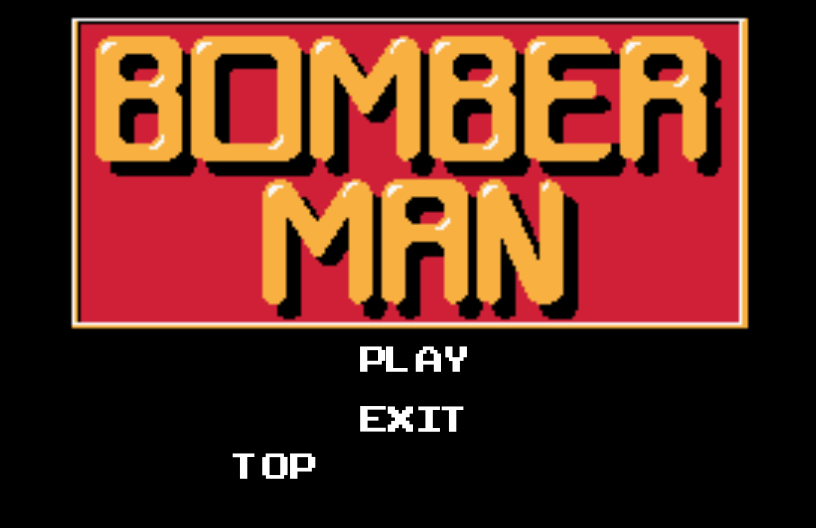
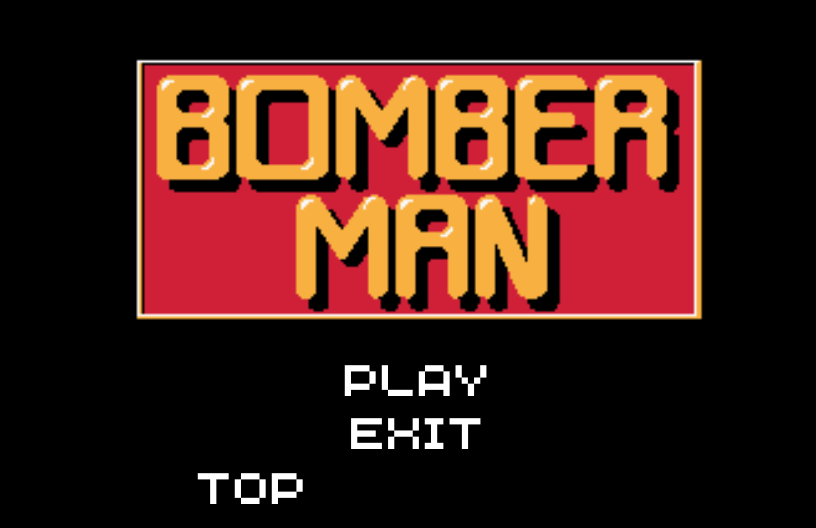
Edit Start Menu, Play Again Menu, Pause and Make map transition faster

diff --git a/src/main/java/GUI/GameOver.java b/src/main/java/GUI/GameOver.java
@@ -1,6 +1,7 @@
 package GUI;
 
 import Controls.MouseHandler;
+import Variables.Constant;
 
 import javax.imageio.ImageIO;
 import java.awt.*;
@@ -10,10 +11,11 @@ import java.io.File;
 public class GameOver {
     boolean isAlive;
 
-    BufferedImage gameOver, playAgain, playAgainPressed, exit, exitPressed;
-    BufferedImage playAgainCurrentImage, exitCurrentImage;
+    BufferedImage gameOver, playAgainPressed, exitPressed;
+    BufferedImage currentGameOver;
 
-    Rect gameOverRect, playAgainRect, exitRect;
+    Rect playAgainRect, exitRect;
+
     MouseHandler mouseH = Window.getMouseH();
 
     public static GameOver instance = null;
@@ -26,30 +28,16 @@ public class GameOver {
     }
 
     public GameOver() {
-
         try {
-            BufferedImage spriteSheet1 = ImageIO.read(new File("src/main/resources/Menu/Game_Over.png"));
-            gameOver = spriteSheet1.getSubimage(0, 0, 531, 69);
-
-            BufferedImage spriteSheet2 = ImageIO.read(new File("src/main/resources/Menu/Exit_Play.png"));
-            exit = spriteSheet2.getSubimage(0, 70, 175, 53);
-            exitPressed = spriteSheet2.getSubimage(208, 69, 175, 53);
-
-            BufferedImage spriteSheet3 = ImageIO.read(new File("src/main/resources/Menu/Play_Again.png"));
-            playAgain = spriteSheet3.getSubimage(0, 68, 440, 55);
-            playAgainPressed = spriteSheet3.getSubimage(462, 68, 440, 55);
-
+            gameOver = ImageIO.read(new File("src/main/resources/Menu/GameOver.png"));
+            playAgainPressed = ImageIO.read(new File("src/main/resources/Menu/GameOverPlayAgainPressed.png"));
+            exitPressed = ImageIO.read(new File("src/main/resources/Menu/GameOverExitPressed.png"));
         } catch (Exception e) {
             e.printStackTrace();
         }
-        playAgainCurrentImage = playAgain;
-        exitCurrentImage = exit;
-
-        //Game Over Menu Location
-        gameOverRect = new Rect(150, 100, 531, 69);
-        playAgainRect = new Rect(195, 275, 440, 55);
-        exitRect = new Rect(328, 348, 175, 53);
-
+        currentGameOver = gameOver;
+        playAgainRect = new Rect(258, 292, 332, 31);
+        exitRect = new Rect(359, 344, 131, 29);
     }
 
     public void checkAlive(int state) {
@@ -57,40 +45,26 @@ public class GameOver {
     }
 
     public void update() {
-        //Pressed Play Again
         if (mouseH.getX() >= playAgainRect.x && mouseH.getX() <= playAgainRect.x + playAgainRect.width &&
                 mouseH.getY() >= playAgainRect.y && mouseH.getY() <= playAgainRect.y + playAgainRect.height) {
-            playAgainCurrentImage = playAgainPressed;
+            currentGameOver = playAgainPressed;
             if (mouseH.isPressed) {
 //                Window.getWindow().changeState(2); // For debugging purposes
                 Window.getWindow().changeState(GameScene.getMapID());
                 TileManager.getInstance().clearMap(); //Return map to default map
             }
-        } else playAgainCurrentImage = playAgain;
-
-        //Pressed Exit
-        if (mouseH.getX() >= exitRect.x && mouseH.getX() <= exitRect.x + exitRect.width &&
+        } else if (mouseH.getX() >= exitRect.x && mouseH.getX() <= exitRect.x + exitRect.width &&
                 mouseH.getY() >= exitRect.y && mouseH.getY() <= exitRect.y + exitRect.height) {
-            exitCurrentImage = exitPressed;
+            currentGameOver = exitPressed;
             if (mouseH.isPressed) {
                 Window.getWindow().close();
             }
-        } else exitCurrentImage = exit;
+        } else {
+            currentGameOver = gameOver;
+        }
     }
 
     public void draw(Graphics g2) {
-//        JLayeredPane grayLayer = new JLayeredPane();
-//        grayLayer.setBounds(0, 0, Constant.WIDTH - 100, Constant.HEIGHT - 100);
-//        grayLayer.setBackground(new Color(0, 0, 0, 50));
-//
-//        Window.getWindow().addLayer(grayLayer);
-
-        getOption(g2, gameOver, gameOverRect, playAgainCurrentImage, playAgainRect, exitCurrentImage, exitRect);
-    }
-
-    static void getOption(Graphics g2, BufferedImage gameOver, Rect gameOverRect, BufferedImage playAgainCurrentImage, Rect playAgainRect, BufferedImage exitCurrentImage, Rect exitRect) {
-        g2.drawImage(gameOver, (int) gameOverRect.x, (int) gameOverRect.y, (int) gameOverRect.width, (int) gameOverRect.height, null);
-        g2.drawImage(playAgainCurrentImage, (int) playAgainRect.x, (int) playAgainRect.y, (int) playAgainRect.width, (int) playAgainRect.height, null);
-        g2.drawImage(exitCurrentImage, (int) exitRect.x, (int) exitRect.y, (int) exitRect.width, (int) exitRect.height, null);
+        g2.drawImage(currentGameOver, 0, 0, Constant.WIDTH, Constant.HEIGHT, null);
     }
 }

diff --git a/src/main/java/GUI/Pause.java b/src/main/java/GUI/Pause.java
@@ -1,6 +1,7 @@
 package GUI;
 
 import Controls.KeyHandler;
+import Variables.Constant;
 
 import javax.imageio.ImageIO;
 import java.awt.*;
@@ -12,20 +13,15 @@ public class Pause {
     KeyHandler keyH = Window.getKeyH();
     BufferedImage pause;
     boolean isPaused, flag;
-    Rect pauseRect;
 
     Pause(boolean isPaused) {
         this.isPaused = isPaused;
 
         try {
-            BufferedImage spriteSheet = ImageIO.read(new File("src/main/resources/Menu/Pause.png"));
-            pause = spriteSheet.getSubimage(0, 0, 308, 57);
+            pause = ImageIO.read(new File("src/main/resources/Menu/Pause.png"));
         } catch (Exception e) {
             e.printStackTrace();
         }
-
-        //Pause location
-        pauseRect = new Rect(254, 235, 308, 57);
     }
     public void pauseGame() {
         if (keyH.pausePressed) {
@@ -39,6 +35,6 @@ public class Pause {
     }
 
     public void draw(Graphics g2) {
-        g2.drawImage(pause, (int) pauseRect.x, (int) pauseRect.y, (int) pauseRect.width, (int) pauseRect.height, null);
+        g2.drawImage(pause, 0, 0, Constant.WIDTH, Constant.HEIGHT, null);
     }
 }

diff --git a/src/main/java/Entity/Player.java b/src/main/java/Entity/Player.java
@@ -2,9 +2,7 @@ package Entity;
 
 import Controls.CollisionCheck;
 import Controls.KeyHandler;
-import GUI.Camera;
-import GUI.GameScene;
-import GUI.MapTransitionMenu;
+import GUI.*;
 import GUI.Window;
 import Variables.Constant;
 
@@ -147,10 +145,12 @@ public class Player extends Entity {
                     GameScene.Object[i] = null;
                 }
                 case "Door" ->{
-                    if(GameScene.getMobList() == null) {
+//                    if(GameScene.getMobList() == null) {
                         System.out.println("Map Transition");
-                        MapTransitionMenu.getInstance().setisTransitioning(true); //transition to next map
-                    }
+//                        MapTransitionMenu.getInstance().setisTransitioning(true); //transition to next map
+                        Window.getWindow().changeState(2);
+                        TileManager.getInstance().clearMap();
+//                    }
                 }
                 case "BlastRadius" -> {
                     //Bomb.blastRadius += 1;

diff --git a/src/main/java/GUI/GameScene.java b/src/main/java/GUI/GameScene.java
@@ -16,7 +16,6 @@ public class GameScene extends Scene {
 
     Pause pause;
     GameOver gameOver;
-    MapTransitionMenu mapTransitionMenu;
 
     KeyHandler keyH = Window.getKeyH();
 
@@ -50,7 +49,6 @@ public class GameScene extends Scene {
         
         pause = new Pause(false);
         gameOver = new GameOver();
-        mapTransitionMenu = new MapTransitionMenu();
     }
 
 //    public static GameScene instance = null;

diff --git a/src/main/java/GUI/MapTransitionMenu.java b/src/main/java/GUI/MapTransitionMenu.java
@@ -54,6 +54,7 @@ public class MapTransitionMenu {
                 Window.getWindow().changeState(2); //transition from map 01 to map 02
                 TileManager.getInstance().clearMap();
                 isTransitioning = false;
+                //TO DO: Make Item arraylist clear
             }
         } else mapTransitionMenuCurrentImage = mapTransitionMenu;
     }

diff --git a/src/main/java/GUI/MenuScene.java b/src/main/java/GUI/MenuScene.java
@@ -25,8 +25,8 @@ public class MenuScene extends Scene {
         } catch (Exception e) {
             e.printStackTrace();
         }
-        playRect = new Rect(359,346,107,26);
-        exitRect = new Rect(359, 405, 105, 26);
+        playRect = new Rect(345,365,142,32);
+        exitRect = new Rect(351, 417, 128, 30);
 
         MenuCurrentImage = Menu;
     }
